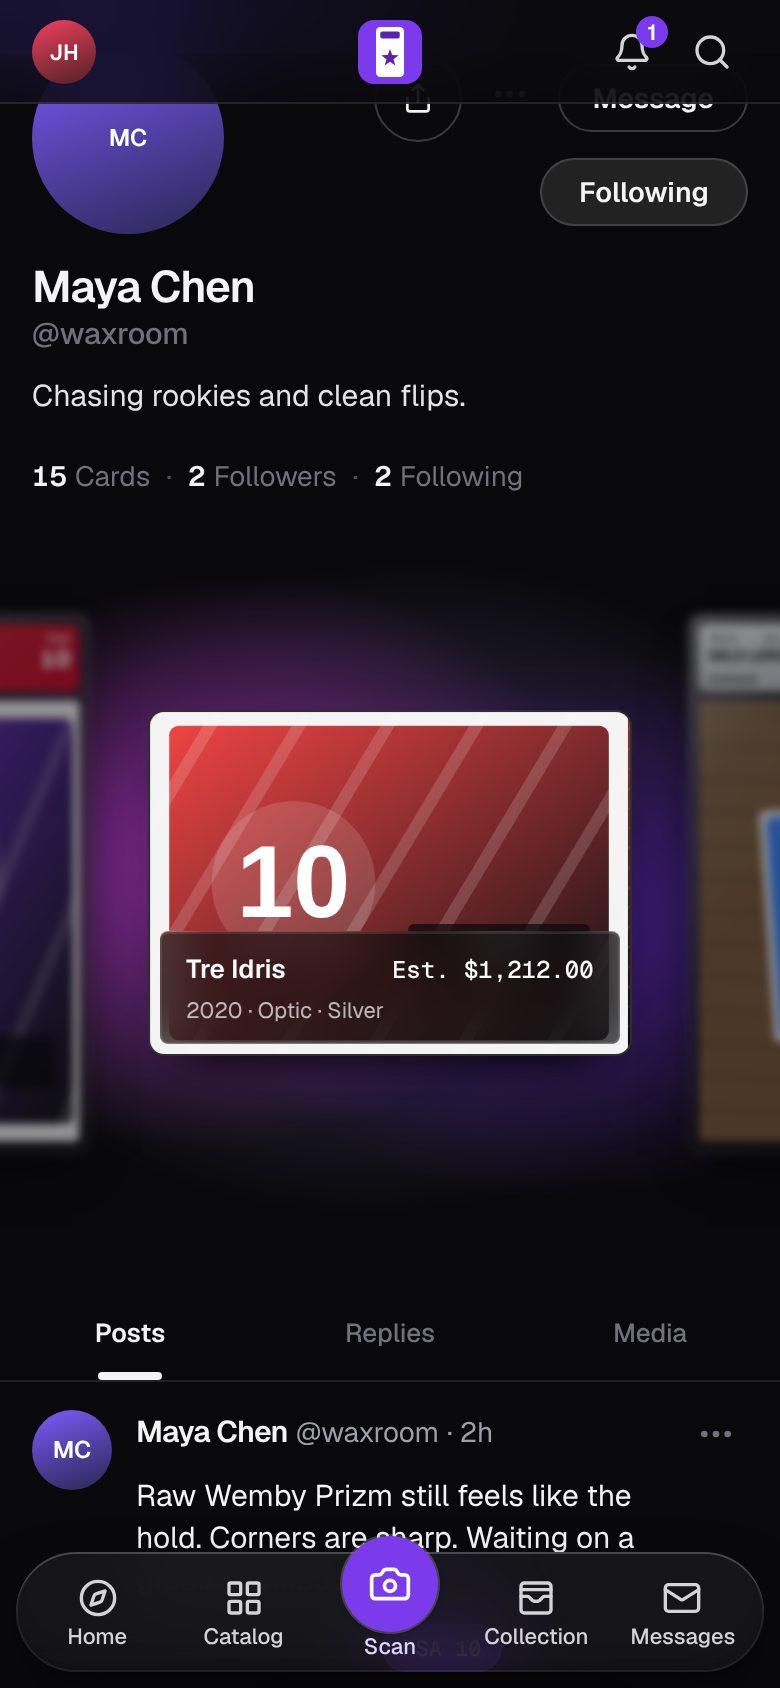
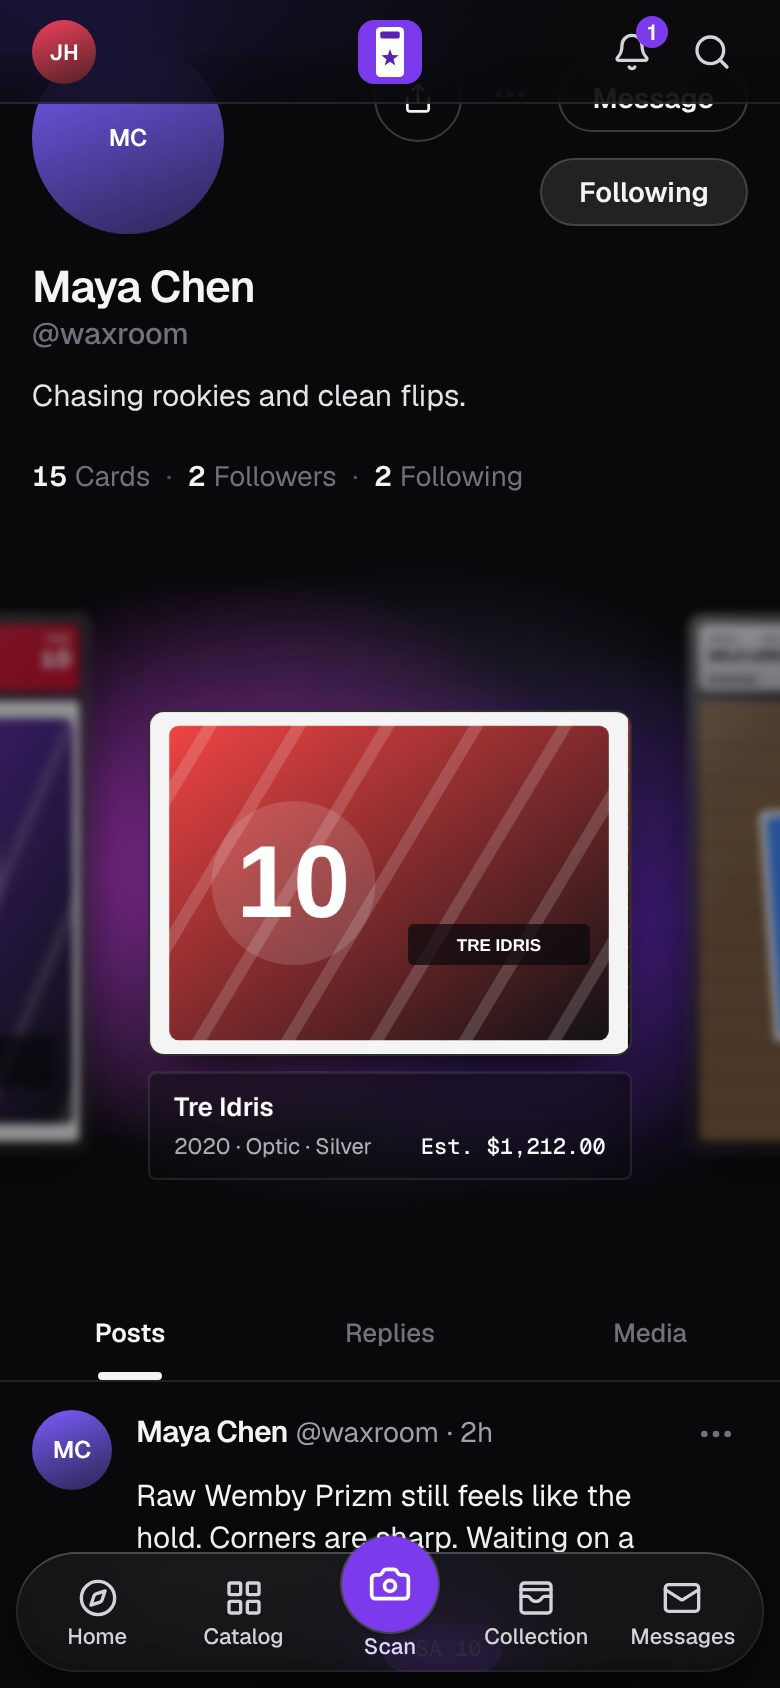
Spotlight: landscape card label sits under the art (web only) (#339)
- A sideways card's label now sits under the card art, the same width as
  the art, pinned inside the 5:7 slot. CSS only (:has on the shape fit=hug
  measures). Same glass, fade and 4px rise.
- spotlight-styles header: say what the blur really does (every mounted
  slide, driven by its own view timeline).
- leaderboard-sheet: drop a stale comment.
- e2e: assert the label is at or below the art on the landscape fixture.

Claude-Session: https://claude.ai/code/session_01EqJov2xPkWrwdYoUbg8rK6

diff --git a/components/profile/spotlight-carousel.test.tsx b/components/profile/spotlight-carousel.test.tsx
@@ -314,6 +314,43 @@ describe("SpotlightCarousel: the label", () => {
   });
 });
 
+describe("SpotlightCarousel: the label on a sideways card", () => {
+  const css = readFileSync(join(process.cwd(), "components/profile/spotlight-styles.ts"), "utf8");
+  const rule = css.match(/\.spot-scale:has\(\[data-fit="hug"\]\[data-shape="landscape"\]\) \.spot-under \{[^}]*\}/)?.[0] ?? "";
+
+  it("keeps the label in one holder, on the card by default", () => {
+    const el = spotlight([card("a"), card("b")]);
+    const label = el.querySelector("[data-spot-label]")!;
+    const holder = label.parentElement!;
+    assert.match(holder.className, /spot-under/);
+    assert.match(holder.className, /absolute inset-x-1\.5 bottom-1\.5/);
+    // The label itself only fades and rises. Where it sits is the holder's job.
+    assert.doesNotMatch(label.className, /absolute|inset-|bottom-/);
+  });
+
+  it("moves the holder under the card art for a landscape card, the full width of the art, with CSS alone", () => {
+    assert.ok(rule, "a :has() rule keyed on the shape fit=hug measures");
+    assert.match(rule, /left: 0;/);
+    assert.match(rule, /right: 0;/);
+    assert.match(rule, /padding-top: 8px;/);
+    // No script learns the shape for this: the carousel never reads it.
+    const view = readFileSync(join(process.cwd(), "components/profile/spotlight-carousel.tsx"), "utf8");
+    assert.doesNotMatch(view, /landscape|useCardShape|measureShape/);
+  });
+
+  it("holds the label inside the 5:7 slot: the holder ends at the slot's bottom edge and grows upward", () => {
+    // Space under a centered 7:5 card in a 5:7 slot: (1.4 - 5/7) / 2 of the slide's width.
+    assert.match(rule, /bottom: calc\(var\(--spot-w\) \* -0\.342857\);/);
+    assert.match(rule, /min-height: calc\(var\(--spot-w\) \* 0\.342857\);/);
+    assert.doesNotMatch(rule, /\stop:/);
+  });
+
+  it("keeps the same glass, fade and 4px rise", () => {
+    assert.match(css, /\.spot-label \{[^}]*background: rgba\(9, 9, 11, 0\.62\);[^}]*backdrop-filter: blur\(12px\);[^}]*transform: translateY\(4px\);/);
+    assert.doesNotMatch(rule, /background|backdrop-filter|opacity|transform|transition/);
+  });
+});
+
 describe("SpotlightCarousel: motion", () => {
   it("turns the spotlight effect on by default", () => {
     const el = spotlight([card("a"), card("b")]);

diff --git a/components/profile/spotlight-styles.ts b/components/profile/spotlight-styles.ts
@@ -18,8 +18,15 @@
  *    has no blur: a blur driven from script re-rasters on the main thread
  *    and halved the frame rate under a 4x CPU slowdown, so it leans on
  *    scale and dim alone.
- * Only transforms, opacity and (on at most the two neighbours in view, and
- * only on the scroll-timeline engine) a small blur ever animate.
+ * Only transforms, opacity and (only on the scroll-timeline engine) a small
+ * blur ever animate. The blur is declared on every mounted slide (up to three
+ * each side of center), not just the two neighbours: each slide's own view
+ * timeline drives it, so it only changes while that slide crosses the row.
+ * Cutting it to the two neighbours would need script to say which they are.
+ *
+ * A sideways card (the shape fit="hug" measures) is short in its 5:7 slot, so
+ * its label sits under the art instead of on it: .spot-under, by :has(), with
+ * no script. Browsers without :has() keep the label on the card.
  */
 export const SPOTLIGHT_CSS = `
 @property --spot-tint {
@@ -121,6 +128,19 @@ export const SPOTLIGHT_CSS = `
     opacity: 0;
     transform: translateY(4px);
   }
+}
+/*
+ * The space under a centered 7:5 card in the 5:7 slot is (1.4 - 5/7) / 2 of
+ * the slide's width. The holder fills it: pinned to the slot's bottom edge, the
+ * label at its top, 8px under the art. A label too tall for that space grows
+ * the holder upward, onto the art, never out of the slot.
+ */
+.spot-scale:has([data-fit="hug"][data-shape="landscape"]) .spot-under {
+  left: 0;
+  right: 0;
+  bottom: calc(var(--spot-w) * -0.342857);
+  min-height: calc(var(--spot-w) * 0.342857);
+  padding-top: 8px;
 }
 @supports not ((backdrop-filter: blur(1px)) or (-webkit-backdrop-filter: blur(1px))) {
   .spot-label {

diff --git a/components/profile/spotlight-carousel.tsx b/components/profile/spotlight-carousel.tsx
@@ -172,10 +172,12 @@ const Slide = memo(function Slide({
             <span aria-hidden className={`spot-veil pointer-events-none absolute inset-0 ${slab ? "rounded-[10px]" : "rounded-lg"}`} />
           </div>
           {label ? (
+            // On the card, along its bottom edge. Under a sideways card instead (spot-under, in the styles).
+            <div className="spot-under pointer-events-none absolute inset-x-1.5 bottom-1.5">
             <div
               data-spot-label=""
               data-on={labelOn ? "" : undefined}
-              className="spot-label pointer-events-none absolute inset-x-1.5 bottom-1.5 rounded border border-white/10 px-3 py-2 text-left text-white"
+              className="spot-label rounded border border-white/10 px-3 py-2 text-left text-white"
             >
               {/* Line 1 is the player alone and is never cut: a long name wraps. */}
               <p data-spot-name="" className="text-13 leading-[1.125rem] font-semibold break-words">{label.title}</p>
@@ -196,6 +198,7 @@ const Slide = memo(function Slide({
                   {OPEN_TO_OFFERS_LABEL}
                 </p>
               ) : null}
+            </div>
             </div>
           ) : null}
         </div>

diff --git a/components/leaderboard-sheet.tsx b/components/leaderboard-sheet.tsx
@@ -24,7 +24,6 @@ export type SheetPerson = {
   /** Top card post only: the card the post is about. */
   card: string;
   profileHref: string;
-  /** The profile's Cards tab. Each photo opens it. */
   /** Public photos of this period's counted cards, at most 4. Most cards added only. */
   photos: { src: string; srcSet?: string; sizes?: string }[];
   /** The viewer's own row: what is next, the board's step, and their rank to share. */
